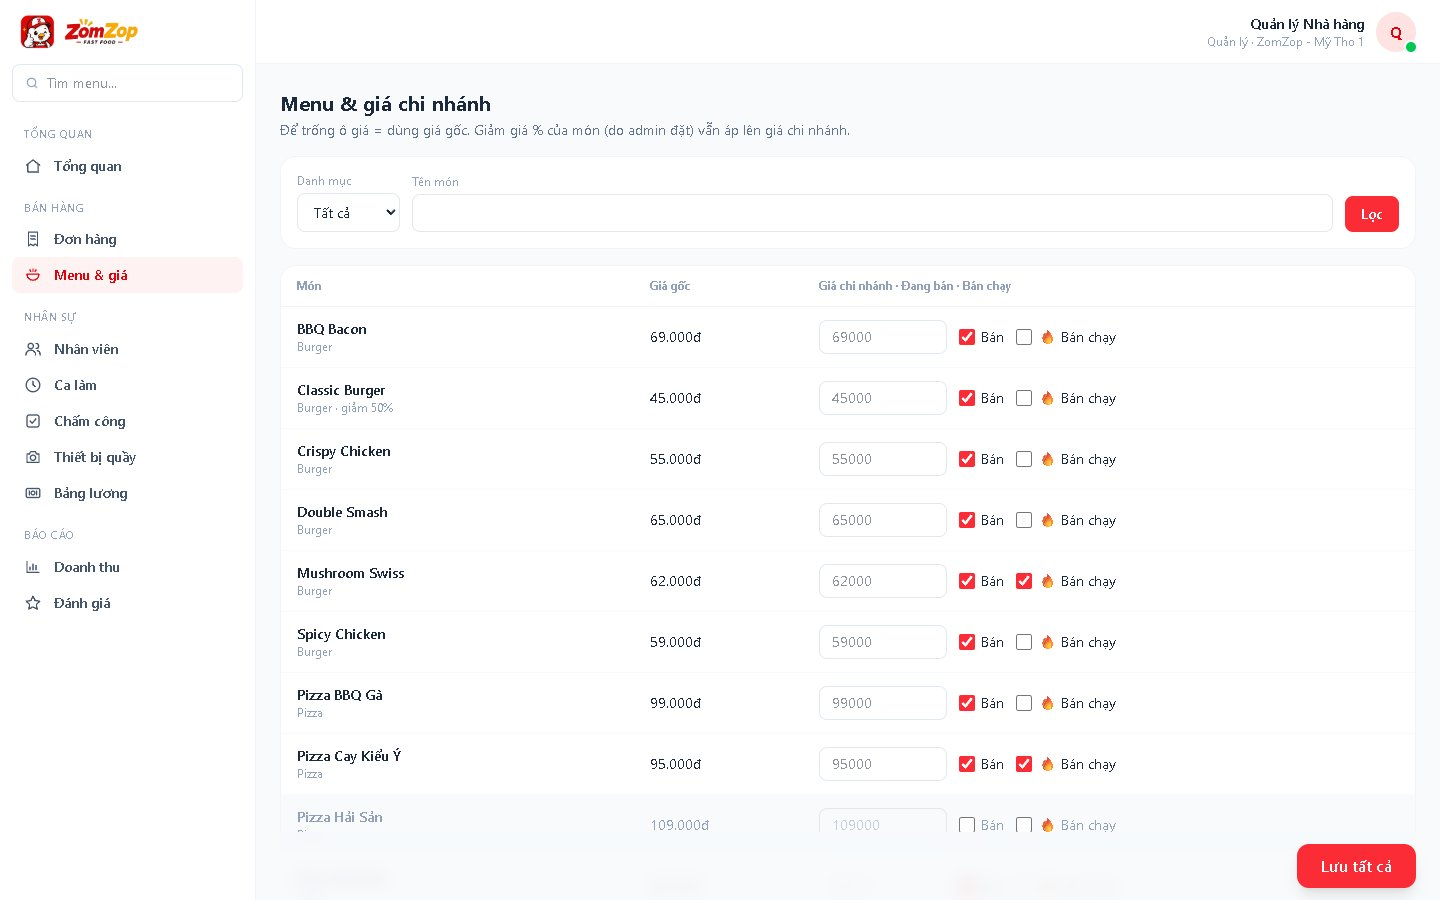
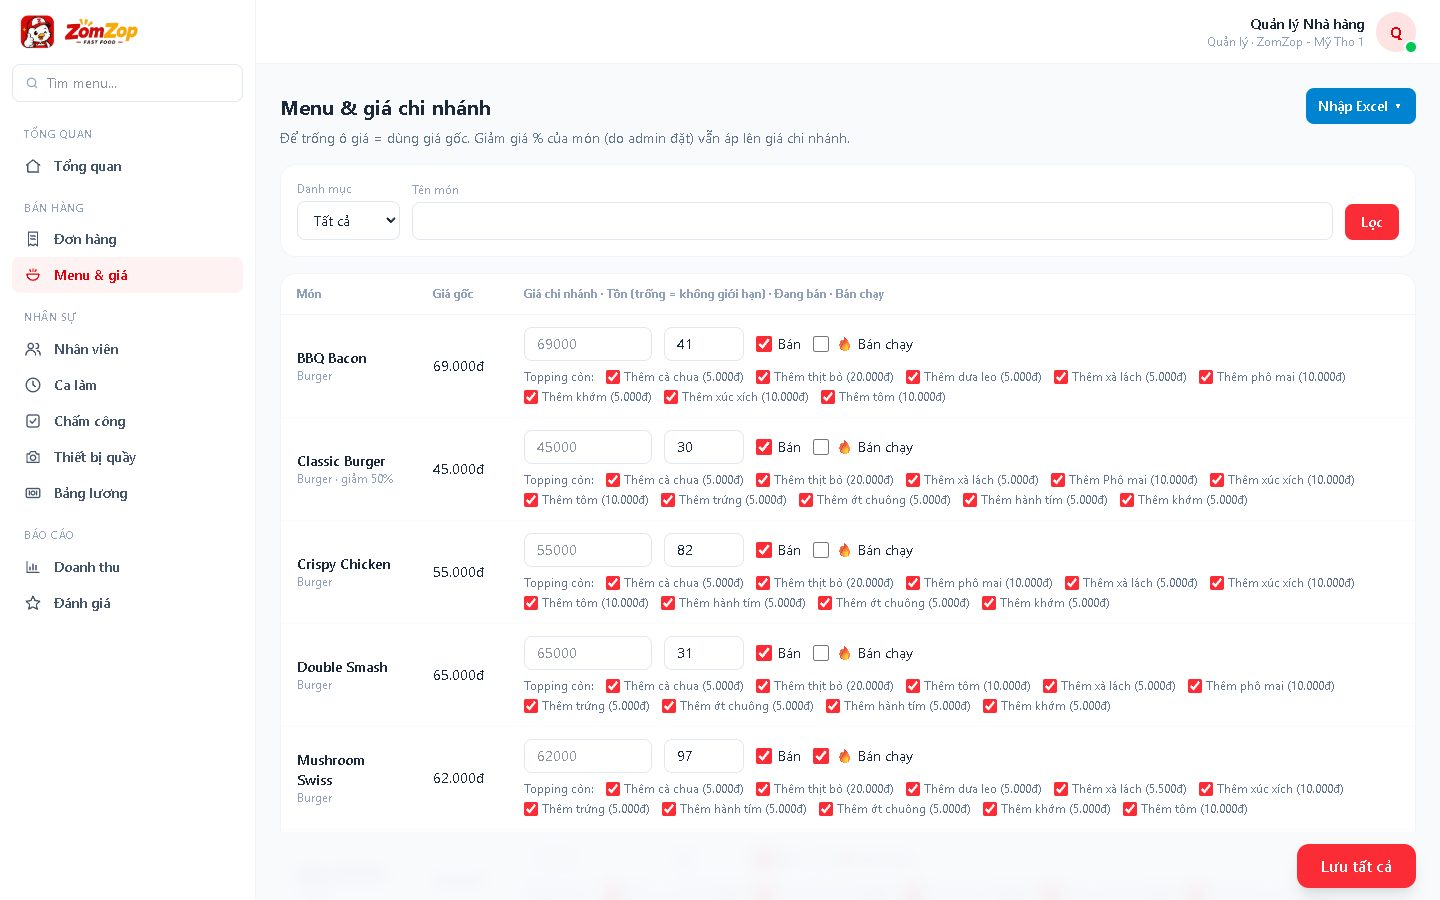
docs: cập nhật README theo tính năng mới (POS, topping, VietQR, lịch làm, nhập Excel...) và chụp lại ảnh màn hình

diff --git a/README.md b/README.md
@@ -5,7 +5,7 @@
 
 ### Website đặt đồ ăn cho chuỗi cửa hàng fast food nhiều chi nhánh
 
-Khách đặt món mang đi hoặc giao hàng · Quản lý vận hành chi nhánh · Admin điều hành toàn chuỗi
+Khách đặt món mang đi hoặc giao hàng · Bán tại quầy (POS) · Quản lý vận hành chi nhánh · Admin điều hành toàn chuỗi
 
 ![Laravel](https://img.shields.io/badge/Laravel-13-FF2D20?logo=laravel&logoColor=white)
 ![PHP](https://img.shields.io/badge/PHP-8.3-777BB4?logo=php&logoColor=white)
@@ -27,30 +27,22 @@ Hệ thống phục vụ 5 nhóm người dùng:
 
 | Vai trò | Làm được gì |
 |---|---|
-| **Khách hàng** | Xem menu theo chi nhánh, tìm món, giỏ hàng, mã giảm giá, đặt và theo dõi đơn, yêu thích, đánh giá, hỏi chatbot, gửi liên hệ |
-| **Quản lý chi nhánh** | Duyệt đơn, chỉnh menu và giá chi nhánh, gắn món Bán chạy, chọn món đề xuất, nhân sự, ca làm, chấm công, bảng lương, báo cáo |
-| **Nhân viên / Bếp** | Chấm công bằng khuôn mặt tại máy ở quầy |
-| **Admin** | Chi nhánh, tài khoản quản lý, món và danh mục, banner, mã giảm giá, cài đặt, từ khoá chatbot, tin nhắn liên hệ, nhật ký thao tác |
+| **Khách hàng** | Đăng nhập thường hoặc Google/Facebook, xem menu theo chi nhánh, tìm món, chọn topping, giỏ hàng, mã giảm giá, đặt đơn (tiền mặt / VietQR), theo dõi, huỷ và đặt lại đơn, sổ địa chỉ, hộp thư thông báo, yêu thích, đánh giá, hỏi chatbot, gửi liên hệ |
+| **Quản lý chi nhánh** | Duyệt đơn, xác nhận đã nhận tiền chuyển khoản, chỉnh menu / giá / tồn kho chi nhánh (nhập Excel được), gắn món Bán chạy, chọn món đề xuất, bán tại quầy (POS), nhân sự (nhập Excel được), ca làm và xếp lịch tuần, chấm công, bảng lương, báo cáo |
+| **Nhân viên** | Bán tại quầy bằng **POS**, in hoá đơn, xem đơn mình đã bán, xem lịch làm và công của mình, chấm công khuôn mặt |
+| **Bếp** | Màn hình bếp (đơn chờ nấu / đang nấu), xem lịch làm và công của mình, chấm công khuôn mặt |
+| **Admin** | Chi nhánh, tài khoản quản lý, món và danh mục (nhập Excel được), topping, banner, ghim món nổi bật, mã giảm giá (gửi email cho khách), khách hàng, đơn hàng, chấm công và lương toàn chuỗi, báo cáo, cài đặt, từ khoá chatbot, tin nhắn liên hệ, nhật ký thao tác |
 
 ## Dành cho khách hàng
 
-<table>
-<tr>
-<td width="50%"><img src="docs/screenshots/trang-chu.jpg" alt="Trang chủ"></td>
-<td width="50%">
+### Trang chủ và tìm món
 
-**Trang chủ theo chi nhánh**
+<img src="docs/screenshots/trang-chu.jpg" alt="Trang chủ theo chi nhánh" width="100%">
 
-- Banner khuyến mãi, lối tắt danh mục và mục **Bán Chạy**
-- Món được yêu thích, combo, món mới
+- Banner khuyến mãi, lưới **Khám Phá Thực Đơn**, mục **Món Ngon Được Yêu Thích** (admin ghim món), **Bán Chạy**, combo, món mới
 - **Ưu Đãi Đặc Biệt Từ Đầu Bếp**: các món quản lý chi nhánh chọn, tự chuyển slide
-- Mỗi thẻ món hiện **điểm sao** trung bình từ đánh giá của khách
-- Giá và món hiển thị đúng theo chi nhánh khách đã chọn
-- **Form liên hệ** cuối trang: khách vãng lai cũng gửi được, tin nhắn được chuyển tới trang admin
-
-</td>
-</tr>
-</table>
+- Mỗi thẻ món hiện **điểm sao** trung bình từ đánh giá của khách; giá và món đúng theo chi nhánh đang chọn
+- **Form liên hệ** cuối trang: khách vãng lai cũng gửi được, tin nhắn chuyển tới trang admin
 
 | Danh mục món | Món bán chạy của chi nhánh |
 |---|---|
@@ -62,55 +54,99 @@ Hệ thống phục vụ 5 nhóm người dùng:
 | <img src="docs/screenshots/tim-kiem.jpg" alt="Tìm kiếm trực tiếp"> | <img src="docs/screenshots/chon-chi-nhanh.jpg" alt="Chọn chi nhánh"> |
 | Kết quả hiện ngay khi gõ, nền trang được làm mờ | Mỗi chi nhánh có menu và giá riêng, giỏ hàng tự làm mới khi đổi chi nhánh |
 
+### Chọn món, giỏ hàng và đặt đơn
+
+| Chọn topping theo số phần | Giỏ hàng |
+|---|---|
+| <img src="docs/screenshots/chon-topping.jpg" alt="Chọn topping cho burger"> | <img src="docs/screenshots/gio-hang.jpg" alt="Giỏ hàng"> |
+| Món burger thêm được topping, tối đa 5 phần mỗi loại, giá cộng ngay vào món | Ghi chú riêng từng món; giỏ được lưu theo tài khoản, đăng nhập lại vẫn còn |
+
+<img src="docs/screenshots/thanh-toan.jpg" alt="Trang đặt hàng" width="100%">
+
+- Khách chưa đăng nhập vẫn thêm món vào giỏ được; chỉ đặt được số lượng còn trong **tồn kho** của chi nhánh
+- Chọn **giao tận nơi** (tiêu chuẩn / hoả tốc, lưu nhiều **địa chỉ giao hàng**) hoặc **tự đến lấy**
+- Áp mã giảm giá, thanh toán tiền mặt hoặc **chuyển khoản VietQR** (mã QR có sẵn số tiền và nội dung)
+- Đơn lưu lại tên, giá và topping tại thời điểm đặt, sau này đổi giá cũng không lệch
+
+### Sau khi đặt
+
+| Đơn hàng của tôi | Hộp thư thông báo |
+|---|---|
+| <img src="docs/screenshots/don-hang.jpg" alt="Đơn hàng của tôi"> | <img src="docs/screenshots/thong-bao.jpg" alt="Hộp thư thông báo"> |
+| Lọc theo trạng thái, theo dõi đơn, **tự huỷ đơn** kèm lý do khi đơn chưa được làm, **đặt lại** đơn cũ, đánh giá đơn đã hoàn thành | Cập nhật trạng thái đơn và mã giảm giá được tặng, đánh dấu đã đọc |
+
+### Chatbot và giao diện điện thoại
+
 <table>
 <tr>
-<td width="30%"><img src="docs/screenshots/dien-thoai.jpg" alt="Giao diện điện thoại"></td>
-<td>
-
-**Trợ lý chatbot**
+<td width="62%"><img src="docs/screenshots/chatbot.jpg" alt="Trợ lý chatbot"></td>
+<td width="38%"><img src="docs/screenshots/dien-thoai.jpg" alt="Giao diện điện thoại"></td>
+</tr>
+</table>
 
 - Câu hỏi thường gặp (giờ mở cửa, chi nhánh, mã giảm giá, cách đặt món...) được trả lời ngay bằng **từ khoá** do admin soạn, kèm nút dẫn tới trang liên quan
 - Câu hỏi khác do **Gemini** trả lời, dựa trên menu và giá thật của chi nhánh
 - Bot chỉ **gợi ý khách quan**, để khách tự quyết định và luôn nhắc **giá có thể thay đổi**
-
-**Giỏ hàng và đặt món**
-
-- Khách chưa đăng nhập vẫn thêm món được, ghi chú riêng cho từng món
-- Áp mã giảm giá, chọn mang đi hoặc giao hàng, chọn phương thức thanh toán
-- Đơn lưu lại tên và giá món tại thời điểm đặt, sau này đổi giá cũng không lệch
-
-**Giao diện điện thoại**: hiển thị gọn trên màn hình nhỏ (ảnh bên trái).
-
-</td>
-</tr>
-</table>
+- Giao diện khách hiển thị gọn trên điện thoại (ảnh bên phải)
+- Đăng nhập thường hoặc bằng **Google / Facebook**
 
 ## Dành cho quản lý chi nhánh
 
+### Tổng quan và đơn hàng
+
 <img src="docs/screenshots/quan-ly-dashboard.jpg" alt="Dashboard quản lý chi nhánh" width="100%">
 
-- **Tổng quan**: số đơn theo trạng thái và doanh thu (mặc định hôm nay), biểu đồ đơn và doanh thu (mặc định 7 ngày), duyệt hoặc huỷ nhanh đơn chờ xác nhận
+- **Tổng quan**: số đơn theo trạng thái và doanh thu (hôm nay / tháng này / tổng), biểu đồ đơn và doanh thu, duyệt hoặc huỷ nhanh đơn chờ xác nhận, nút mở **máy POS**
 - **Ưu đãi đặc biệt từ đầu bếp**: chọn tối đa 10 món hiện trên trang chủ của chi nhánh
+
+<img src="docs/screenshots/quan-ly-don-hang.jpg" alt="Danh sách đơn hàng chi nhánh" width="100%">
+
+- **Đơn hàng**: đổi trạng thái theo đúng quy trình, xác nhận đã nhận tiền chuyển khoản, xuất Excel
+
+### Menu và báo cáo
 
 | Menu & giá chi nhánh | Báo cáo doanh thu |
 |---|---|
 | <img src="docs/screenshots/quan-ly-menu.jpg" alt="Menu và giá chi nhánh"> | <img src="docs/screenshots/quan-ly-bao-cao.jpg" alt="Báo cáo doanh thu"> |
-| Giá riêng, bật/tắt món, gắn Bán chạy, **lưu cả bảng bằng một nút** | Theo ngày, hình thức, thanh toán, món bán chạy, **xuất Excel** |
+| Giá riêng, tồn kho, bật/tắt món, gắn Bán chạy, bật/tắt từng topping; **lưu cả bảng bằng một nút** hoặc **nhập Excel** | Theo ngày, hình thức, thanh toán, món bán chạy, **xuất Excel** |
 
-Ngoài ra còn có:
+### Nhân sự, ca làm, chấm công, lương
 
-- **Nhân sự**: tạo, sửa, khoá tài khoản nhân viên và bếp; đặt lương theo giờ; quản lý ca làm
-- **Chấm công bằng khuôn mặt**: máy tính bảng ở quầy nhận diện bằng face-api.js ngay trên trình duyệt, có kiểm tra người thật (chớp mắt, quay đầu), hỏi lý do khi đi trễ hoặc về sớm. Chi tiết: [`docs/cham-cong-khuon-mat.md`](docs/cham-cong-khuon-mat.md)
-- **Bảng lương**: tính theo giờ đã chấm (có lương thử việc), thưởng/phạt, chốt lương, xuất Excel
+| Xếp lịch tuần | Lịch chấm công |
+|---|---|
+| <img src="docs/screenshots/quan-ly-lich-lam.jpg" alt="Xếp lịch làm theo tuần"> | <img src="docs/screenshots/quan-ly-cham-cong.jpg" alt="Lịch chấm công theo tháng"> |
+| Tạo ca; mỗi ô tick một hoặc nhiều ca, **Lưu lịch tuần**, xuất Excel | Lịch theo tháng, xem ảnh bằng chứng, xuất Excel theo ngày / tháng / năm |
+
+<img src="docs/screenshots/quan-ly-luong.jpg" alt="Bảng lương" width="100%">
+
+- **Nhân sự**: tạo, sửa, khoá tài khoản nhân viên và bếp (hoặc **nhập Excel** hàng loạt); đặt lương theo giờ
+- **Chấm công bằng khuôn mặt**: quản lý đăng ký khuôn mặt nhân viên (tự chụp mẫu hoặc tải ảnh lên, không lưu ảnh đăng ký); máy tính bảng ở quầy nhận diện bằng face-api.js ngay trên trình duyệt, chỉ cần nhìn thẳng, hỏi lý do khi đi trễ hoặc về sớm, lưu ảnh bằng chứng có thời hạn. Chi tiết: [`docs/cham-cong-khuon-mat.md`](docs/cham-cong-khuon-mat.md)
+- **Bảng lương**: tính theo giờ đã chấm (có lương thử việc), thưởng/phạt thành từng khoản có lý do, chốt và trả lương, xuất Excel
 - **Đánh giá**: xem và trả lời đánh giá của khách
+
+## Dành cho nhân viên và bếp
+
+<img src="docs/screenshots/nhan-vien-pos.jpg" alt="Máy POS bán tại quầy" width="100%">
+
+- **Máy POS** (trang mặc định của nhân viên sau khi đăng nhập; quản lý cũng dùng được): chọn món và topping, tại quán / mang đi / giao hàng, chốt đơn (giá do server tự tính), thanh toán tiền mặt hoặc VietQR, in hoá đơn; xem lại các đơn mình đã bán
+
+| Trang "Của tôi" | Màn hình bếp |
+|---|---|
+| <img src="docs/screenshots/nhan-vien-cua-toi.jpg" alt="Trang của tôi"> | <img src="docs/screenshots/bep.jpg" alt="Màn hình bếp"> |
+| Lịch làm theo tháng (xuất Excel), công đã chấm, lương tạm tính | Đơn chờ nấu / đang nấu, tự cập nhật mỗi 30 giây (chỉ xem, quản lý đổi trạng thái) |
 
 ## Dành cho admin
 
-| Tổng quan toàn chuỗi | Từ khoá chatbot |
-|---|---|
-| <img src="docs/screenshots/admin-dashboard.jpg" alt="Dashboard admin"> | <img src="docs/screenshots/admin-chatbot.jpg" alt="Quản lý từ khoá chatbot"> |
+<img src="docs/screenshots/admin-dashboard.jpg" alt="Dashboard admin" width="100%">
 
-Quản lý chi nhánh, tài khoản quản lý, nhân viên, khách hàng, đơn hàng, chấm công và bảng lương toàn chuỗi; danh mục và món ăn (nhiều ảnh mỗi món); banner trang chủ; mã giảm giá (gửi thông báo cho khách); cài đặt chung (thông tin liên hệ, phương thức thanh toán); từ khoá chatbot; **tin nhắn liên hệ** từ trang chủ (đánh dấu đã xử lý); nhật ký thao tác.
+| Món ăn toàn chuỗi | Mã giảm giá |
+|---|---|
+| <img src="docs/screenshots/admin-mon-an.jpg" alt="Quản lý món ăn"> | <img src="docs/screenshots/admin-ma-giam-gia.jpg" alt="Quản lý mã giảm giá"> |
+| Nhiều ảnh mỗi món, topping riêng từng món, **ghim món** lên trang chủ, **nhập Excel** từ file mẫu | Mã theo phạm vi, **gửi email** cho khách (có link huỷ nhận tin) |
+
+<img src="docs/screenshots/admin-chatbot.jpg" alt="Quản lý từ khoá chatbot" width="100%">
+
+Ngoài ra: chi nhánh, tài khoản quản lý, nhân viên, khách hàng (khoá / mở tài khoản), đơn hàng, chấm công và bảng lương toàn chuỗi; báo cáo toàn chuỗi (xuất Excel); danh mục; banner trang chủ (tỉ lệ 2:1); cài đặt chung (thông tin liên hệ, phương thức thanh toán); từ khoá chatbot (ảnh trên); **tin nhắn liên hệ** từ trang chủ (đánh dấu đã xử lý); nhật ký thao tác.
 
 ## Công nghệ
 
@@ -118,13 +154,15 @@ Quản lý chi nhánh, tài khoản quản lý, nhân viên, khách hàng, đơn
 |---|---|
 | Backend | Laravel 13, PHP 8.3 |
 | Cơ sở dữ liệu | MySQL (session, cache, queue dùng driver database) |
+| Đăng nhập mạng xã hội | Laravel Socialite (Google, Facebook) |
+| Thanh toán chuyển khoản | VietQR (mã QR tạo từ thông tin ngân hàng trong `.env`) |
 | Giao diện | Blade, Tailwind CSS 4, Vite 8 |
 | Biểu đồ | ApexCharts |
 | Slider | Swiper |
 | Nhận diện khuôn mặt | @vladmandic/face-api |
-| Xuất Excel | OpenSpout |
+| Nhập / xuất Excel | PhpSpreadsheet, OpenSpout |
 | Chatbot | Google Gemini API |
-| Kiểm thử | PHPUnit (300+ test, SQLite trong bộ nhớ) |
+| Kiểm thử | PHPUnit (370+ test, SQLite trong bộ nhớ) |
 
 ## Cài đặt
 
@@ -157,6 +195,22 @@ GEMINI_MODEL=gemini-3.1-flash-lite
 GEMINI_TIMEOUT=180
 ```
 
+Thông tin tài khoản nhận chuyển khoản (VietQR) và đăng nhập Google/Facebook (bỏ trống thì bấm nút sẽ báo lỗi):
+
+```env
+BANK_ID=vcb
+BANK_NAME=Vietcombank
+BANK_ACCOUNT_NUMBER=
+BANK_ACCOUNT_HOLDER=
+
+GOOGLE_CLIENT_ID=
+GOOGLE_CLIENT_SECRET=
+FACEBOOK_CLIENT_ID=
+FACEBOOK_CLIENT_SECRET=
+```
+
+URL trả về cần khai báo với Google/Facebook: `APP_URL/auth/google/callback` và `APP_URL/auth/facebook/callback`. Cách demo: [`docs/huong-dan-dang-nhap-fb-gg-khi-demo.md`](docs/huong-dan-dang-nhap-fb-gg-khi-demo.md).
+
 Tạo bảng, nạp dữ liệu mẫu và chạy:
 
 ```bash
@@ -166,6 +220,8 @@ php artisan serve    # mở http://127.0.0.1:8000
 ```
 
 > Có thể chạy cùng lúc server, queue, log và Vite bằng một lệnh: `composer dev`.
+> Email gửi mã giảm giá đi qua **queue**, cần có worker chạy (`composer dev` hoặc `php artisan queue:work`) thì mail mới đi.
+> Ảnh chấm công quá hạn được xoá bằng `php artisan attendance:prune-photos` (scheduler chạy hằng ngày).
 > Trang chấm công khuôn mặt cần camera, nên mở bằng `http://localhost:8000` (trình duyệt chỉ cho dùng camera trên localhost hoặc HTTPS).
 
 ### Tài khoản mẫu
@@ -188,7 +244,9 @@ composer install && npm install && npm run build
 php artisan migrate                                 # cập nhật cấu trúc bảng, không mất dữ liệu
 php artisan db:seed --class=UserSeeder              # thêm tài khoản mẫu còn thiếu
 php artisan db:seed --class=ChatbotKeywordSeeder    # từ khoá chatbot mặc định
+php artisan db:seed --class=MenuItemToppingSeeder   # topping mẫu cho món burger
 php artisan db:seed --class=DemoRatingSeeder        # (tuỳ chọn) đánh giá sao, món Bán chạy, món đề xuất để demo
+php artisan db:seed --class=DemoActivitySeeder      # (tuỳ chọn) chấm công và đơn hàng 60 ngày gần nhất
 ```
 
 Các seeder trên chạy lại bao nhiêu lần cũng được. Hướng dẫn đầy đủ và cách tránh xung đột: [`docs/huong-dan-cap-nhat-code-cho-nhom.md`](docs/huong-dan-cap-nhat-code-cho-nhom.md).
@@ -211,23 +269,29 @@ php artisan test
 
 ```
 app/
-├── Http/Controllers/        # trang khách, KioskController; Auth/, Manager/, Admin/
+├── Http/Controllers/        # trang khách, KioskController; Auth/, Manager/, Admin/, Staff/ (POS, bếp)
 ├── Models/                  # User, Branch, MenuItem, BranchMenuItem, Order, Review, ...
-└── Services/                # BranchMenu (món & giá theo chi nhánh), Chatbot, BranchStats, ...
+├── Services/                # BranchMenu, OrderStatusService, CustomerInbox, FaceMatcher, FacePunch,
+│                            # BranchPayroll, BranchReport, Chatbot, CouponService, ...
+└── Support/                 # ExcelReport, ExcelImport, SavedCart, Shipping, PaymentMethods, ...
+config/zomzop.php            # phí ship, danh mục có topping, số phần topping tối đa
 database/
 ├── migrations/
 └── seeders/                 # dữ liệu mẫu: 3 chi nhánh, 8 danh mục, 39 món, đơn, đánh giá...
 resources/
 ├── views/                   # layouts (app, manager, admin), trang khách, manager/, admin/, kiosk/
 └── js/                      # chatbot, tìm kiếm, dashboard, chấm công khuôn mặt
-routes/                      # web.php (khách), manager.php, admin.php, kiosk.php
-docs/                        # hướng dẫn cho nhóm, tài liệu chấm công, ảnh chụp màn hình
+routes/                      # web.php (khách), manager.php, admin.php, staff.php (POS, bếp), kiosk.php
+docs/                        # hướng dẫn cho nhóm, tài liệu chấm công, ERD, kiến trúc, ảnh chụp màn hình
 ```
 
 ## Ghi chú kỹ thuật
 
-- **Món & giá theo chi nhánh** (`App\Services\BranchMenu`): giá chi nhánh thay cho giá gốc, phần trăm giảm giá của món vẫn được áp lên; chi nhánh tắt món thì khách không thấy món đó.
+- **Món & giá theo chi nhánh** (`App\Services\BranchMenu`): giá chi nhánh thay cho giá gốc, phần trăm giảm giá của món vẫn được áp lên; chi nhánh tắt món hoặc hết tồn kho thì khách không đặt được. Dùng chung cho trang khách, quản lý và POS.
+- **Topping**: chỉ món thuộc danh mục trong `config('zomzop.topping_categories')` mới có topping; dòng giỏ và `order_items.toppings` lưu bản chụp `[{id, name, price, quantity}]`.
+- **Trạng thái đơn** chỉ đổi qua `OrderStatusService` (máy trạng thái, ghi lịch sử vào `order_histories`). Đơn có `channel` là `online` (khách đặt) hoặc `pos` (bán tại quầy).
 - **Điểm sao của món** là trung bình đánh giá của các đơn có món đó (đánh giá được chấm theo đơn).
-- Giỏ hàng lưu trong **session**, khách vãng lai cũng dùng được.
-- `order_items` lưu **tên và giá tại thời điểm đặt**.
+- Giỏ hàng lưu trong **session** (khách vãng lai cũng dùng được), khi đã đăng nhập thì được chép sang cột `users.cart`.
+- `order_items` lưu **tên, giá và topping tại thời điểm đặt**.
+- **Máy chấm công** (`/kiosk`) xác thực bằng token thiết bị do quản lý cấp, không dùng phiên đăng nhập.
 - `User`, `Branch`, `MenuItem` dùng **SoftDeletes**.
